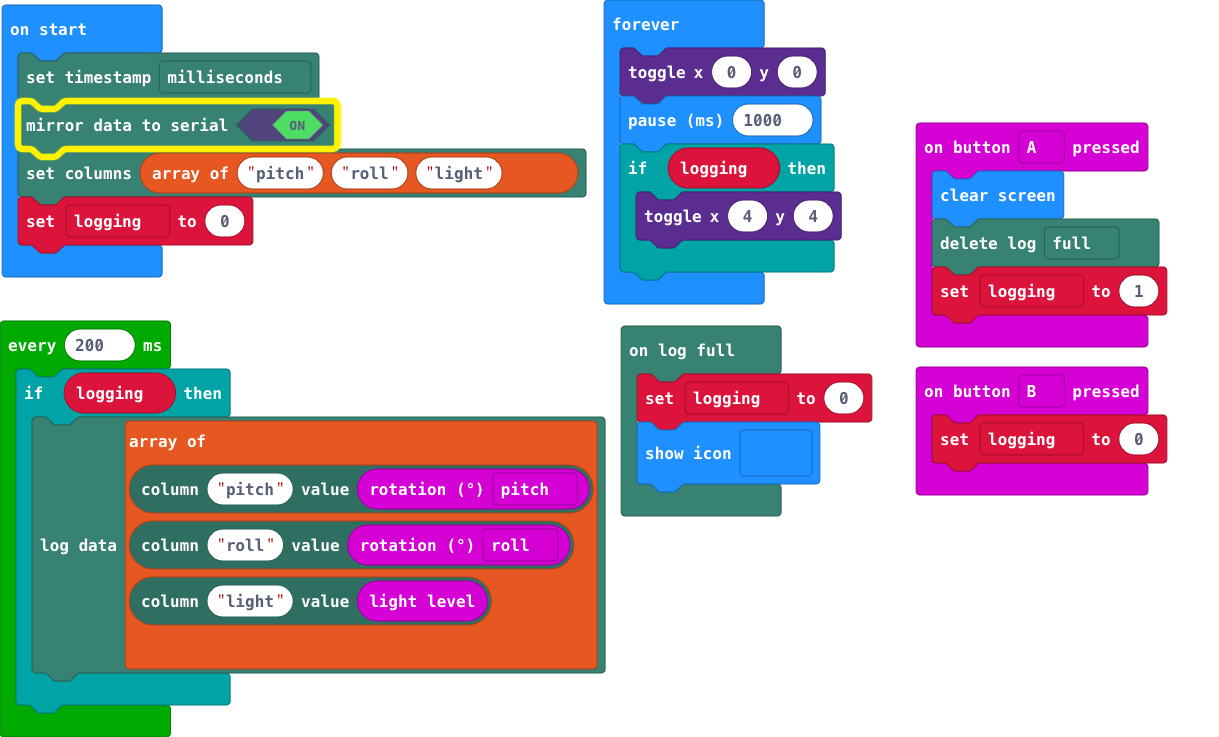
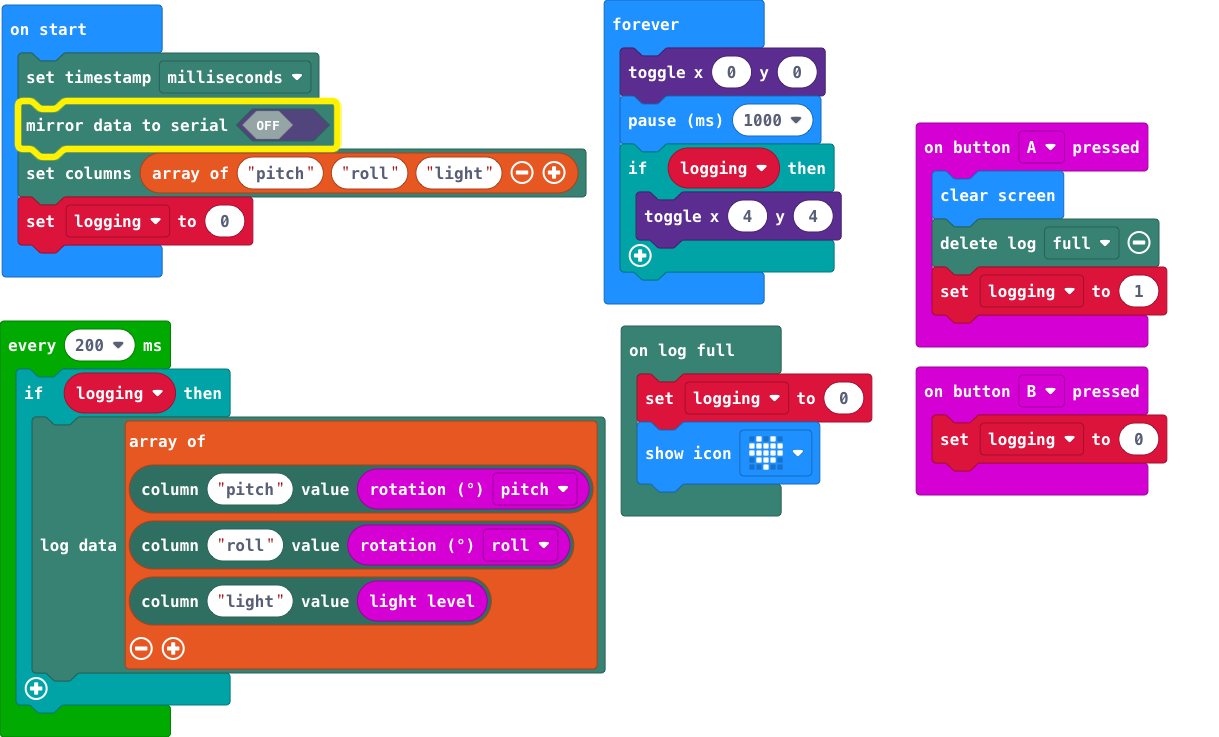
and off

diff --git a/main.ts b/main.ts
@@ -12,7 +12,7 @@ input.onButtonPressed(Button.B, function () {
 })
 let logging = 0
 datalogger.includeTimestamp(FlashLogTimeStampFormat.Milliseconds)
-datalogger.mirrorToSerial(true)
+datalogger.mirrorToSerial(false)
 datalogger.setColumns(["pitch", "roll", "light"])
 logging = 0
 basic.forever(function () {
